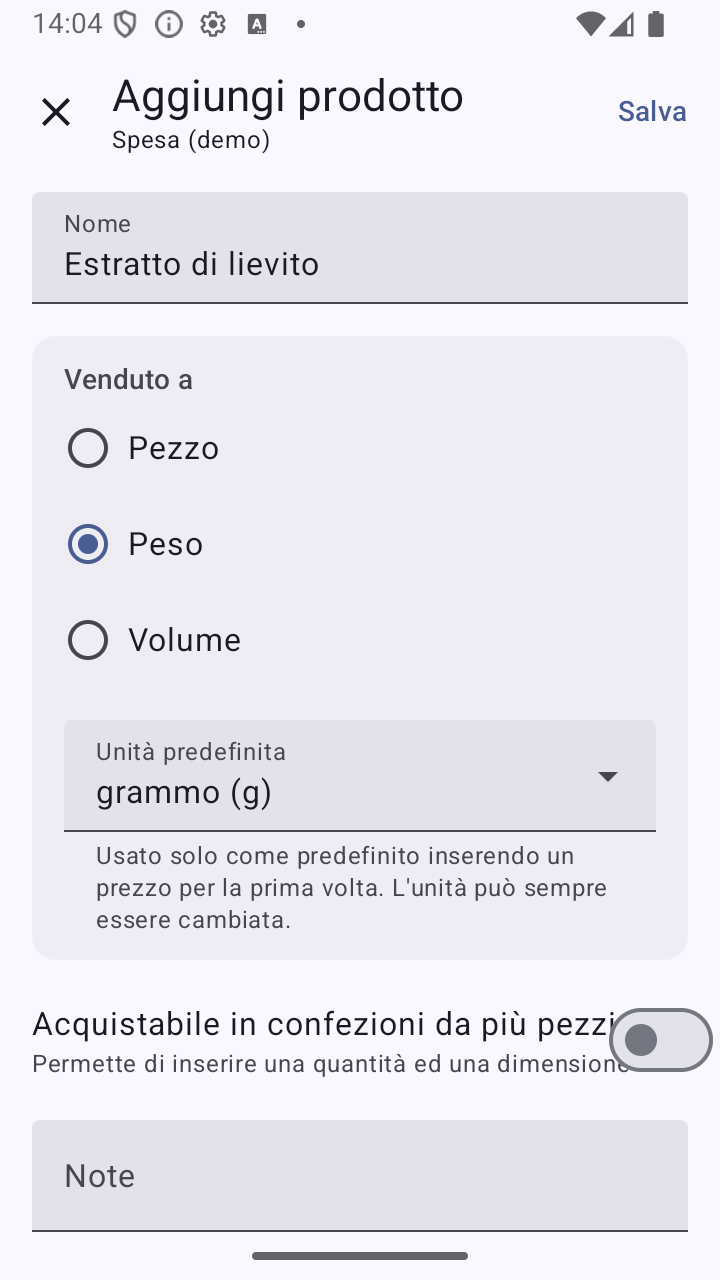
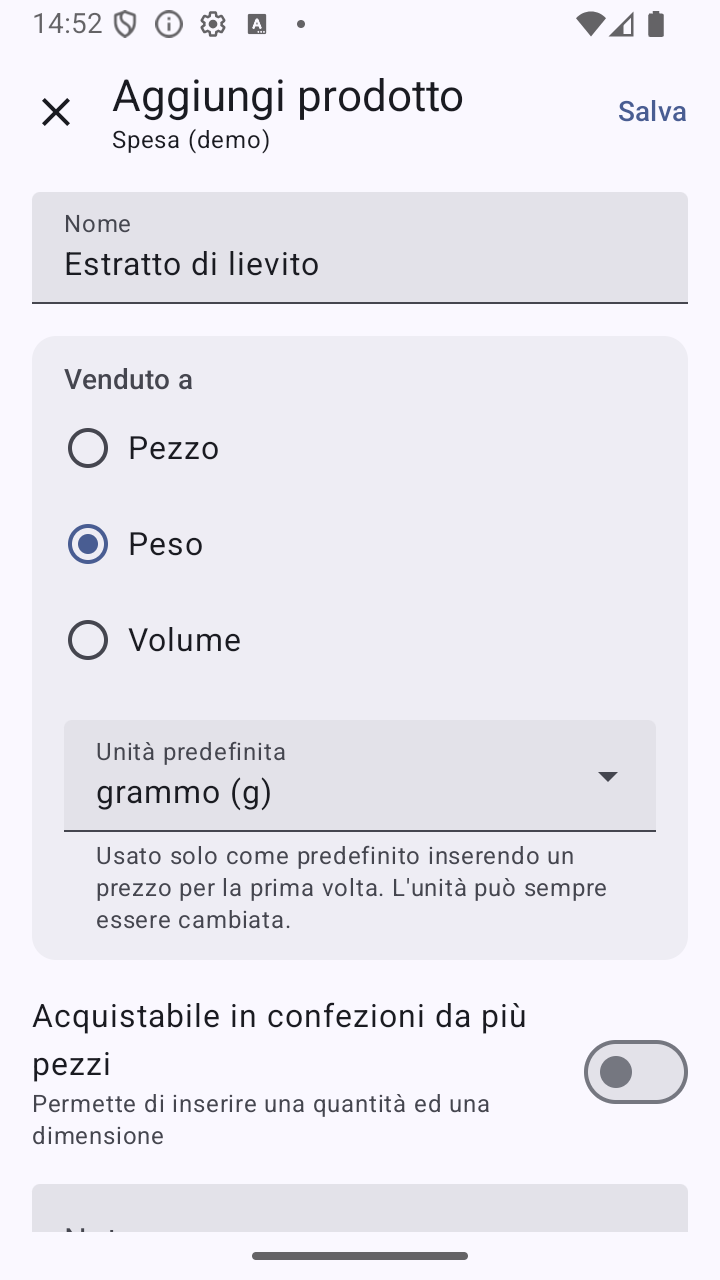
Allow wrapping on edit item multipack switch label

Changed region(s): [[0.0306, 0.7812, 1.0, 0.9375], [0.0917, 0.0, 0.1528, 0.0312]]

diff --git a/app/src/main/java/app/zornslemma/mypricelog/ui/screens/edititem/EditItemScreen.kt b/app/src/main/java/app/zornslemma/mypricelog/ui/screens/edititem/EditItemScreen.kt
@@ -225,12 +225,14 @@ fun EditItemScreen(viewModel: EditItemViewModel, requestClose: (newSelectedItemI
 
         Spacer(modifier = Modifier.height(16.dp))
 
+        // ENHANCE: I think we have this chunk to have a "labelled Switch" in a couple of places,
+        // factor it out?
         Row(
             modifier = Modifier.fillMaxWidth(),
             verticalAlignment = Alignment.CenterVertically,
             horizontalArrangement = Arrangement.SpaceBetween,
         ) {
-            Column {
+            Column(modifier = Modifier.weight(1f)) {
                 Text(
                     text = stringResource(R.string.label_may_be_sold_in_multipacks),
                     color = MaterialTheme.colorScheme.onSurface,
